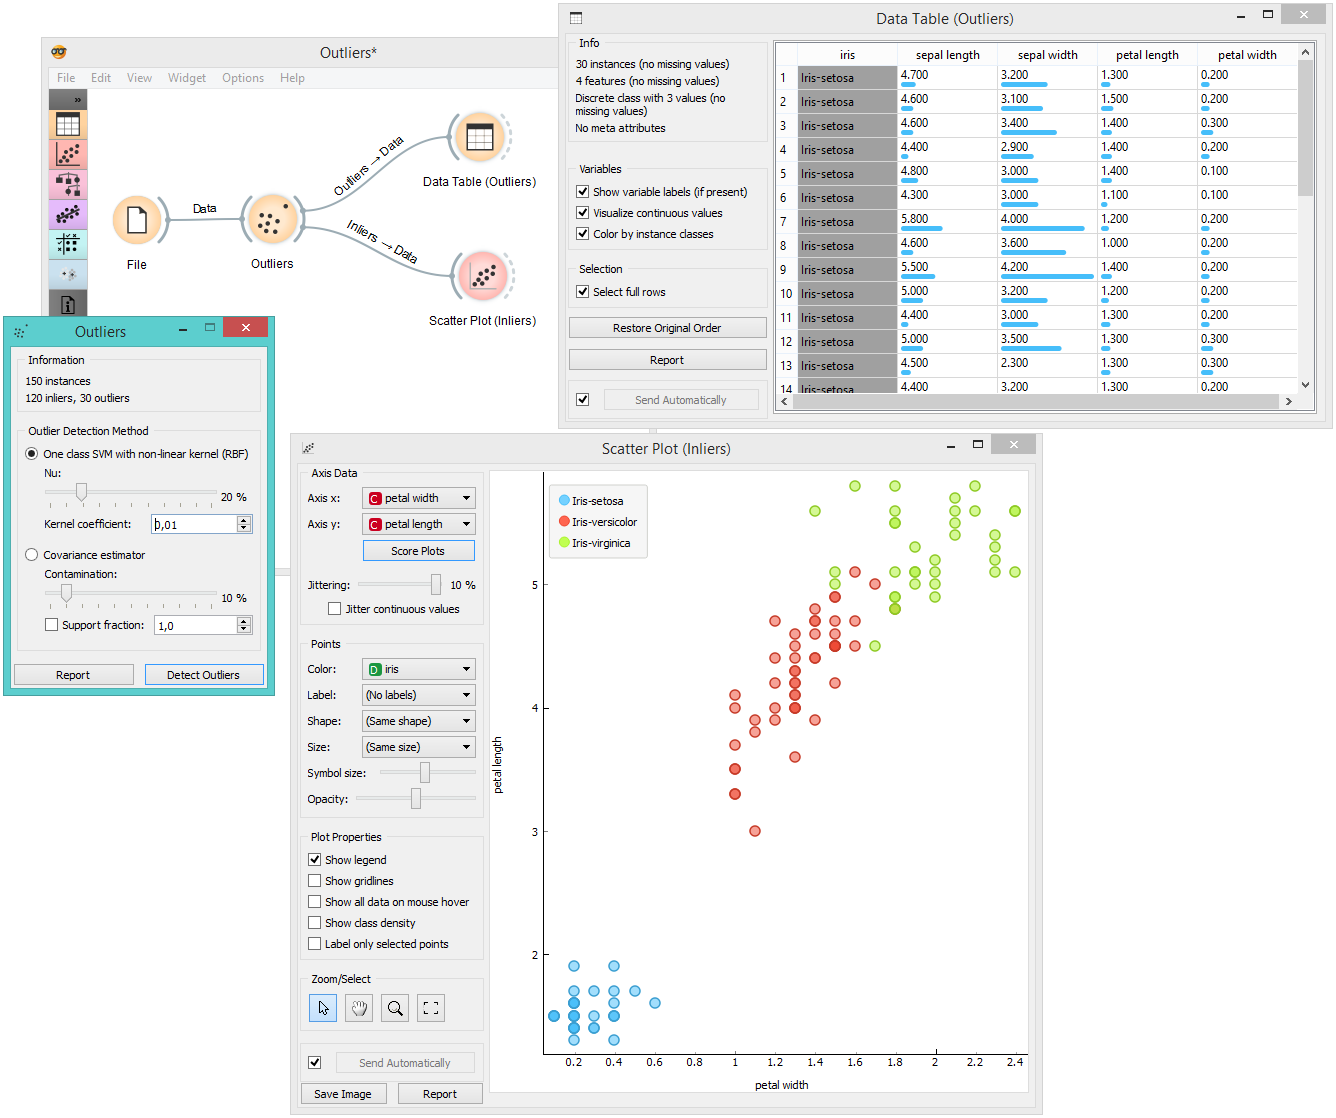
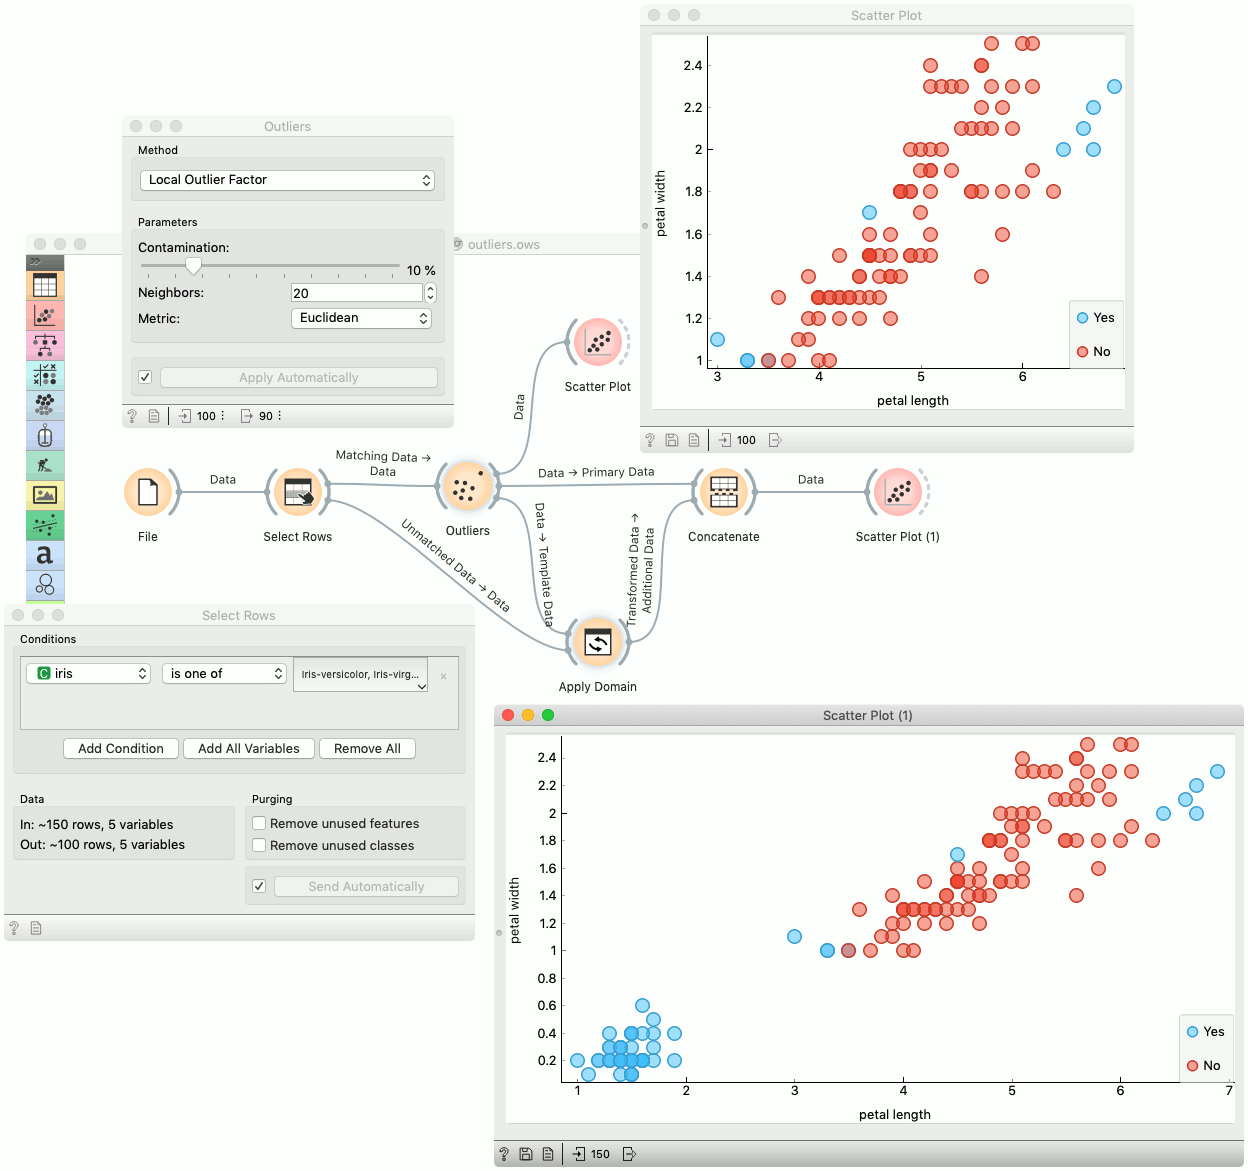
Doc: Widget docs

diff --git a/Orange/widgets/data/owoutliers.py b/Orange/widgets/data/owoutliers.py
@@ -190,7 +190,7 @@ class OWOutliers(OWWidget):
 
         self._init_editors()
 
-        gui.auto_send(self.controlArea, self, "auto_commit")
+        gui.auto_apply(self.controlArea, self, "auto_commit")
 
         self.info.set_input_summary(self.info.NoInput)
         self.info.set_output_summary(self.info.NoOutput)

diff --git a/doc/visual-programming/source/widgets/data/outliers.md b/doc/visual-programming/source/widgets/data/outliers.md
@@ -1,36 +1,49 @@
 Outliers
 ========
 
-Simple outlier detection by comparing distances between instances.
+Outlier detection widget.
 
 **Inputs**
 
 - Data: input dataset
-- Distances: distance matrix
 
 **Outputs**
 
 - Outliers: instances scored as outliers
 - Inliers: instances not scored as outliers
+- Data: input dataset appended *Outlier* variable
 
-The **Outliers** widget applies one of the two methods for outlier detection. Both methods apply classification to the dataset, one with SVM (multiple kernels) and the other with elliptical envelope. *One-class SVM with non-linear kernels (RBF)* performs well with non-Gaussian distributions, while *Covariance estimator* works only for data with Gaussian distribution.
+The **Outliers** widget applies one of the four methods for outlier detection. All methods apply classification to the dataset. *One-class SVM with non-linear kernels (RBF)* performs well with non-Gaussian distributions, while *Covariance estimator* works only for data with Gaussian distribution. One efficient way to perform outlier detection on moderately high dimensional datasets is to use the *Local Outlier Factor* algorithm. The algorithm computes a score reflecting the degree of abnormality of the observations. It measures the local density deviation of a given data point with respect to its neighbors. Another efficient way of performing outlier detection in high-dimensional datasets is to use random forests (*Isolation Forest*).
 
 ![](images/Outliers-stamped.png)
 
-1. Information on the input data, number of inliers and outliers based on the selected model.
-2. Select the *Outlier detection method*:
+1. Method for outlier detection:
+   - [One Class SVM](http://scikit-learn.org/stable/modules/generated/sklearn.svm.OneClassSVM.html)
+   - [Covariance Estimator](http://scikit-learn.org/stable/modules/generated/sklearn.covariance.EllipticEnvelope.html)
+   - [Local Outlier Factor](http://scikit-learn.org/stable/modules/generated/sklearn.neighbors.LocalOutlierFactor.html)
+   - [Isolation Forest](http://scikit-learn.org/stable/modules/generated/sklearn.ensemble.IsolationForest.html)
+2. Set parameters for the method:
    - **One class SVM with non-linear kernel (RBF)**: classifies data as similar or different from the core class:
-      - **Nu** is a parameter for the upper bound on the fraction of training errors and a lower bound of the fraction of support vectors
-      - **Kernel coefficient** is a gamma parameter, which specifies how much influence a single data instance has
-   - **Covariance estimator**: fits ellipsis to central points with Mahalanobis distance metric
-      - **Contamination** is the proportion of outliers in the dataset
-      - **Support fraction** specifies the proportion of points included in the estimate
-3. Produce a report.
-4. Click *Detect outliers* to output the data.
+      - *Nu* is a parameter for the upper bound on the fraction of training errors and a lower bound of the fraction of support vectors
+      - *Kernel coefficient* is a gamma parameter, which specifies how much influence a single data instance has
+    - **Covariance estimator**: fits ellipsis to central points with Mahalanobis distance metric:
+      - *Contamination* is the proportion of outliers in the dataset
+      - *Support fraction* specifies the proportion of points included in the estimate
+   - **Local Outlier Factor**: obtains local density from the k-nearest neighbors:
+      - *Contamination* is the proportion of outliers in the dataset
+      - *Neighbors* represents number of neighbors
+      - *Metric* is the distance measure
+   - **Isolation Forest**: isolates observations by randomly selecting a feature and then randomly selecting a split value between the maximum and minimum values of the selected feature:
+     - *Contamination* is the proportion of outliers in the dataset
+     - *Replicabe training* fixes random seed
+3. If *Apply automatically* is ticked, changes will be propagated automatically. Alternatively, click *Apply*.
+4. Produce a report.
+5. Number of instances on the input, followed by number of instances scored as inliers.
+
 
 Example
 -------
 
-Below, is a simple example of how to use this widget. We used the *Iris* dataset to detect the outliers. We chose the *one class SVM with non-linear kernel (RBF)* method, with Nu set at 20% (less training errors, more support vectors). Then we observed the outliers in the [Data Table](../data/datatable.md) widget, while we sent the inliers to the [Scatter Plot](../visualize/scatterplot.md).
+Below is an example of how to use this widget. We used subset (*versicolor* and *virginica* instances) of the *Iris* dataset to detect the outliers. We chose the *Local Outlier Factor* method, with *Euclidean* distance. Then we observed the annotated instances in the [Scatter Plot](../visualize/scatterplot.md) widget. In the next step we used the *setosa* instances to demonstrate novelty detection using [Apply Domain](../data/applydomain.md) widget. After concatenating both outputs we examined the outliers in the *Scatter Plot (1)*.
 
 ![](images/Outliers-Example.png)
